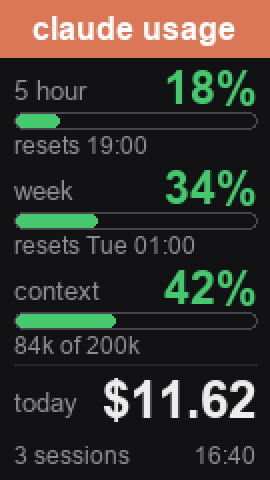
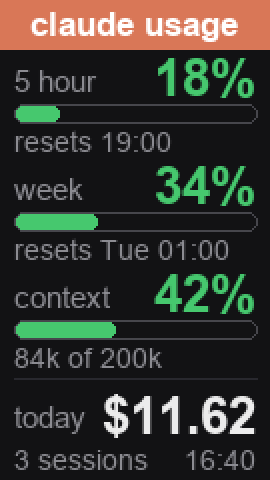
LCD usage screen: larger text; tray always exits on stop
- screen: labels, percentages, reset and token lines, and the dollar
  figure are a size up; the header is a little shorter to make room
- tray: pystray's stop() can block when called from another thread, which
  left a dead tray holding the single-instance lock so nothing could start;
  arm a hard exit before stopping the icon

Changed region(s): [[0.0296, 0.4688, 0.9778, 1.0], [0.0, 0.0, 1.0, 0.4375], [0.0296, 0.375, 0.2963, 0.4375]]

diff --git a/src/mokuru/screen.py b/src/mokuru/screen.py
@@ -156,24 +156,25 @@ def _tokens(n) -> str:
 
 
 def _gauge(d, y: int, label: str, pct, detail: str, x0: int, x1: int) -> None:
-    """50 px: label + big % on one row, a bar, then a small detail line."""
-    small = _font(13)
-    d.text((x0, y + 20), label, fill=DIM, font=small, anchor="ls")
+    """54 px: label + big % on one row, a bar, then a detail line."""
+    small = _font(15)
+    d.text((x0, y + 21), label, fill=DIM, font=small, anchor="ls")
     if pct is None:
-        d.text((x1, y + 22), "–", fill=DIM, font=_font(22, True), anchor="rs")
+        d.text((x1, y + 23), "–", fill=DIM, font=_font(24, True), anchor="rs")
         pct_v, col = 0.0, DIM
     else:
         pct_v = float(pct)
         col = _level_color(pct_v)
         room = x1 - x0 - d.textlength(label, font=small) - 6
-        d.text((x1, y + 22), f"{pct_v:.0f}%", fill=col,
-               font=_fitted(d, f"{pct_v:.0f}%", 23, room), anchor="rs")
-    d.rounded_rectangle([x0, y + 26, x1, y + 34], radius=4, outline=(70, 70, 76))
+        d.text((x1, y + 23), f"{pct_v:.0f}%", fill=col,
+               font=_fitted(d, f"{pct_v:.0f}%", 26, room), anchor="rs")
+    d.rounded_rectangle([x0, y + 27, x1, y + 36], radius=4, outline=(70, 70, 76))
     w = int((x1 - x0 - 2) * min(pct_v, 100) / 100)
     if w > 0:
-        d.rounded_rectangle([x0 + 1, y + 27, x0 + 1 + w, y + 33], radius=3, fill=col)
+        d.rounded_rectangle([x0 + 1, y + 28, x0 + 1 + w, y + 35], radius=3, fill=col)
     if detail:
-        d.text((x0, y + 47), detail, fill=DIM, font=_font(12), anchor="ls")
+        d.text((x0, y + 51), detail, fill=DIM,
+               font=_fitted(d, detail, 14, x1 - x0, False), anchor="ls")
 
 
 def _reset_text(ts) -> str:
@@ -202,9 +203,9 @@ def limits_card(status: dict, today_cost: float | None = None,
     img = Image.new("RGB", SIZE, BG)
     d = ImageDraw.Draw(img)
     x0, x1 = 7, SCREEN_W - 7
-    d.rectangle([0, 0, SCREEN_W, 28], fill=CLAUDE)
-    d.text((SCREEN_W // 2, 14), "claude usage", fill=(255, 255, 255),
-           font=_font(16, True), anchor="mm")
+    d.rectangle([0, 0, SCREEN_W, 24], fill=CLAUDE)
+    d.text((SCREEN_W // 2, 12), "claude usage", fill=(255, 255, 255),
+           font=_font(17, True), anchor="mm")
 
     gauges = []
     if five:
@@ -214,26 +215,26 @@ def limits_card(status: dict, today_cost: float | None = None,
     gauges.append(("context", ctx.get("used_percentage"),
                    f"{_tokens(used_tokens)} of {_tokens(window)}"
                    if used_tokens is not None and window else ""))
-    y = 30
+    y = 25
     for label, pct, detail in gauges:
         _gauge(d, y, label, pct, detail, x0, x1)
-        y += 50
+        y += 54
 
     # dollars: today across all sessions, big; this session and the time, small
     d.line([x0, y + 2, x1, y + 2], fill=(40, 40, 46))
-    label = _font(13)
+    label = _font(15)
     today = today_cost if today_cost is not None else session_cost
-    d.text((x0, y + 26), "today", fill=DIM, font=label, anchor="ls")
+    d.text((x0, y + 27), "today", fill=DIM, font=label, anchor="ls")
     room = x1 - x0 - d.textlength("today", font=label) - 6
-    d.text((x1, y + 29), f"${today:.2f}", fill=FG,
-           font=_fitted(d, f"${today:.2f}", 26, room), anchor="rs")
+    d.text((x1, y + 30), f"${today:.2f}", fill=FG,
+           font=_fitted(d, f"${today:.2f}", 28, room), anchor="rs")
     n = today_sessions or 1
     sess = f"{n} session" + ("s" if n != 1 else "")
     clock = time.strftime("%H:%M", time.localtime(now or time.time()))
-    small = _font(12)
-    d.text((x1, SCREEN_H - 8), clock, fill=DIM, font=small, anchor="rs")
-    d.text((x0, SCREEN_H - 8), sess, fill=DIM,
-           font=_fitted(d, sess, 12, x1 - x0 - d.textlength(clock, font=small) - 6, False),
+    small = _font(14)
+    d.text((x1, SCREEN_H - 5), clock, fill=DIM, font=small, anchor="rs")
+    d.text((x0, SCREEN_H - 5), sess, fill=DIM,
+           font=_fitted(d, sess, 14, x1 - x0 - d.textlength(clock, font=small) - 6, False),
            anchor="ls")
     return img.tobytes()
 

diff --git a/src/mokuru/tray.py b/src/mokuru/tray.py
@@ -2,6 +2,7 @@
 from __future__ import annotations
 
 import math
+import os
 import sys
 import threading
 
@@ -100,6 +101,9 @@ def run_tray() -> int:
                 icon.title = f"mokuru: {label(None)}"
                 icon.update_menu()
                 last = key
+        # pystray's stop() can block when called from another thread; arm a
+        # hard exit first so a dead tray never keeps the single-instance lock.
+        threading.Timer(3.0, os._exit, args=(0,)).start()
         icon.stop()
 
     threading.Thread(target=refresh, daemon=True).start()
